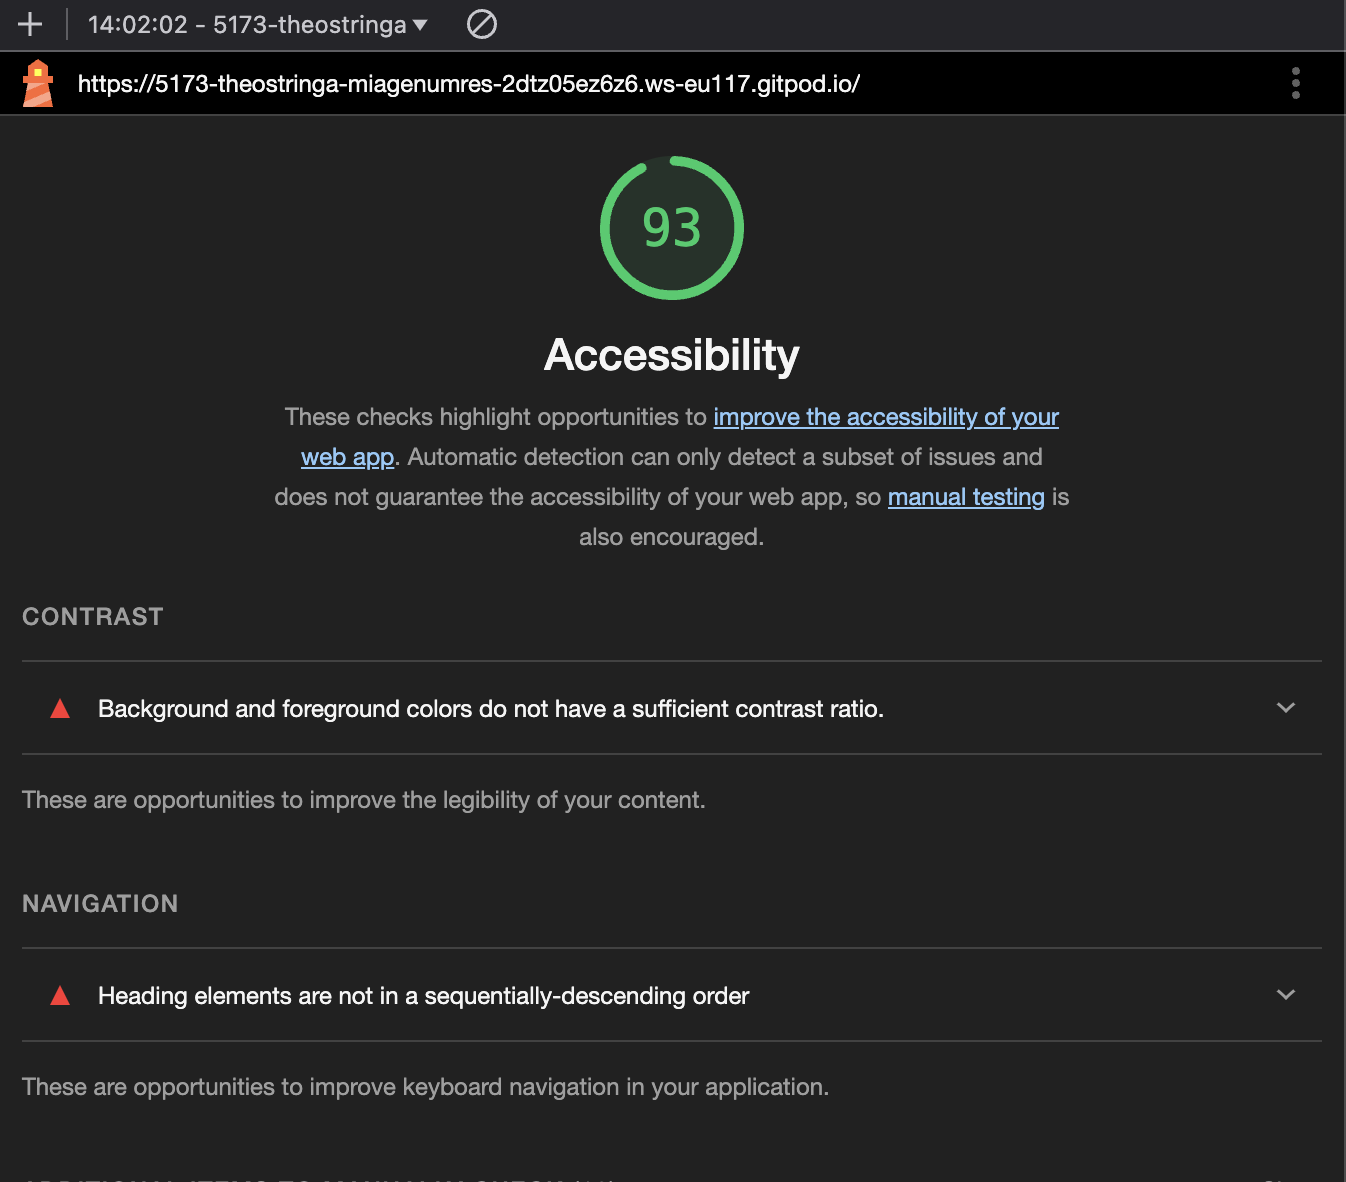
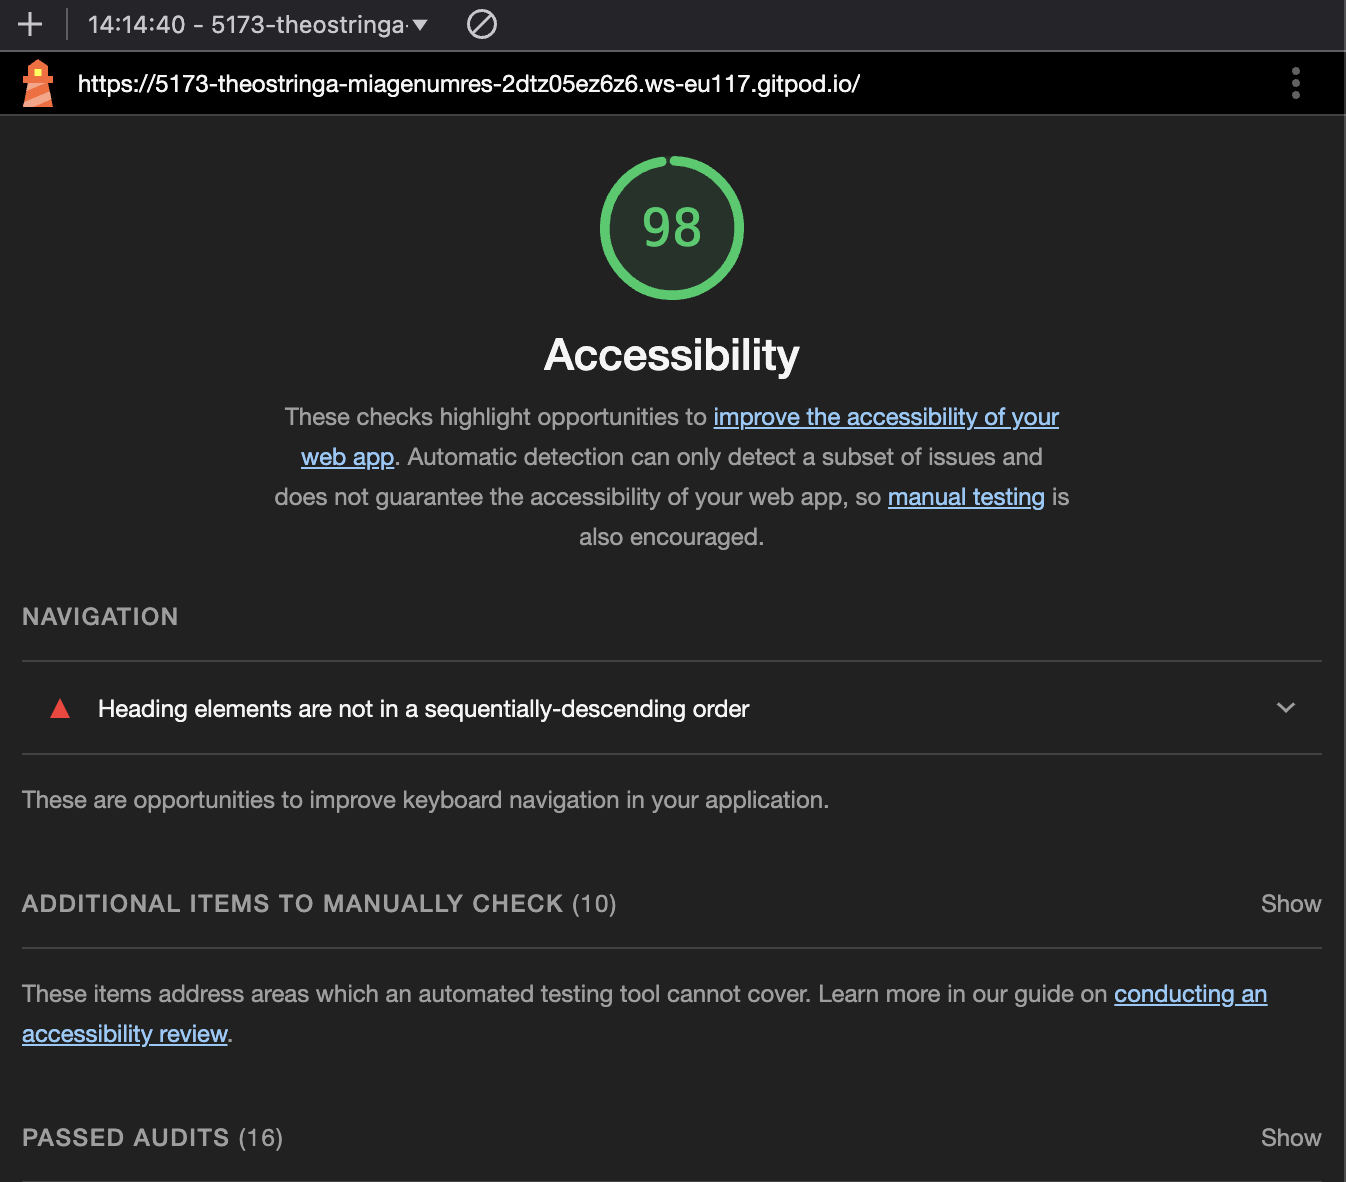
Questions 7 à 9

diff --git a/front/src/main.js b/front/src/main.js
@@ -2,56 +2,65 @@ import { initQuizz } from './quizz.js';
 import './style.css';
 
 document.querySelector('#app').innerHTML = `
-        <div class="header" style="cursor:pointer;">
-          <h1>My Quizz</h1>
-          Pour accéder a la page /about <a href="about/" style="text-decoration: none;">click ici</a>
-        </div>
+  <!-- En-tête de la page -->
+  <header class="header" style="cursor:pointer;">
+    <h1>My Quizz</h1>
+    <p>Pour accéder à la page <a href="about/" style="text-decoration: none;">About</a>, cliquez ici.</p>
+  </header>
 
+  <!-- Barre de navigation principale -->
+  <nav class="topnav">
+    <a aria-label="Lien vers Facebook" href="#" class="fa fa-facebook"></a>
+    <a aria-label="Lien vers Twitter" href="#" class="fa fa-twitter"></a>
+    <a aria-label="Lien vers Google" href="#" class="fa fa-google"></a>
+    <a aria-label="Lien vers LinkedIn" href="#" class="fa fa-linkedin"></a>
+    <a aria-label="Lien vers YouTube" href="#" class="fa fa-youtube"></a>
+    <a aria-label="Lien vers Instagram" href="#" class="fa fa-instagram"></a>
+    <a aria-label="Lien vers Pinterest" href="#" class="fa fa-pinterest"></a>
+    <a aria-label="Lien vers Snapchat" href="#" class="fa fa-snapchat-ghost"></a>
+    <a aria-label="Lien vers Skype" href="#" class="fa fa-skype"></a>
+    <a aria-label="Lien vers Android" href="#" class="fa fa-android"></a>
+    <a aria-label="Lien vers Dribbble" href="#" class="fa fa-dribbble"></a>
+    <a aria-label="Lien vers Vimeo" href="#" class="fa fa-vimeo"></a>
+    <a aria-label="Lien vers Tumblr" href="#" class="fa fa-tumblr"></a>
+    <a aria-label="Lien vers Vine" href="#" class="fa fa-vine"></a>
+    <a aria-label="Lien vers Foursquare" href="#" class="fa fa-foursquare"></a>
+    <a aria-label="Lien vers StumbleUpon" href="#" class="fa fa-stumbleupon"></a>
+    <a aria-label="Lien vers Flickr" href="#" class="fa fa-flickr"></a>
+    <a aria-label="Lien vers Yahoo" href="#" class="fa fa-yahoo"></a>
+    <a aria-label="Lien vers Reddit" href="#" class="fa fa-reddit"></a>
+    <a aria-label="Lien vers Flux RSS" href="#" class="fa fa-rss"></a>
+  </nav>
 
-        <div class="topnav">
-          <a aria-label="Lien vers Facebook" href="#" class="fa fa-facebook"></a>
-          <a aria-label="Lien vers Twitter" href="#" class="fa fa-twitter"></a>
-          <a aria-label="Lien vers Google" href="#" class="fa fa-google"></a>
-          <a aria-label="Lien vers LinkedIn" href="#" class="fa fa-linkedin"></a>
-          <a aria-label="Lien vers YouTube" href="#" class="fa fa-youtube"></a>
-          <a aria-label="Lien vers Instagram" href="#" class="fa fa-instagram"></a>
-          <a aria-label="Lien vers Pinterest" href="#" class="fa fa-pinterest"></a>
-          <a aria-label="Lien vers Snapchat" href="#" class="fa fa-snapchat-ghost"></a>
-          <a aria-label="Lien vers Skype" href="#" class="fa fa-skype"></a>
-          <a aria-label="Lien vers Android" href="#" class="fa fa-android"></a>
-          <a aria-label="Lien vers Dribbble" href="#" class="fa fa-dribbble"></a>
-          <a aria-label="Lien vers Vimeo" href="#" class="fa fa-vimeo"></a>
-          <a aria-label="Lien vers Tumblr" href="#" class="fa fa-tumblr"></a>
-          <a aria-label="Lien vers Vine" href="#" class="fa fa-vine"></a>
-          <a aria-label="Lien vers Foursquare" href="#" class="fa fa-foursquare"></a>
-          <a aria-label="Lien vers StumbleUpon" href="#" class="fa fa-stumbleupon"></a>
-          <a aria-label="Lien vers Flickr" href="#" class="fa fa-flickr"></a>
-          <a aria-label="Lien vers Yahoo" href="#" class="fa fa-yahoo"></a>
-          <a aria-label="Lien vers Reddit" href="#" class="fa fa-reddit"></a>
-          <a aria-label="Lien vers Flux RSS" href="#" class="fa fa-rss"></a>
-        </div>
+  <!-- Contenu principal de la page -->
+  <main class="row">
+    <!-- Colonne principale à gauche -->
+    <section class="leftcolumn">
+      <article class="card">
+        <h1>Nom étudiant</h1>
+        <h5>Description</h5>
+        
+        <!-- Section du quizz -->
+        <section id="quiz">
+          <h2>A TOI DE JOUER</h2>
+          <div id="question"></div>
+          <div id="proposals"></div>
+        </section>
+      </article>
+    </section>
 
-        <div class="row">
-          <div class="leftcolumn">
-            <div class="card">
-              <h1>Nom étudiant</h1>
-              <h5>description</h5>
-              <div id="quiz">
-                <h2>A TOI DE JOUER</h2>
-                <div id="question"></div>
-                <div id="proposals"></div>
-              </div>
-            </div>
-          </div>
-          <div class="rightcolumn">
-            <div class="card">
-              <img alt="image d'un point d'interrogation" src="/question.png" width="500" height="600">
-            </div>
-        </div>
+    <!-- Colonne latérale à droite -->
+    <aside class="rightcolumn">
+      <div class="card">
+        <img alt="Image d'un point d'interrogation" src="/question.png" width="500" height="600">
+      </div>
+    </aside>
+  </main>
 
-        <div class="footer">
-          <h2>@2024</h2>
-        </div>
+  <!-- Pied de page -->
+  <footer class="footer">
+    <h2>@2024</h2>
+  </footer>
 `
 
 initQuizz();

diff --git a/Questions.md b/Questions.md
@@ -21,16 +21,24 @@ Screen:
 ![score de 93 en accessibilité](image-3.png)
 
 # Q7: L'une des best practice de l'ARIA est "ne pas utiliser l'ARIA" pouvez nous expliquer pourquoi d'après vous ?
-Réponse:
+Réponse: Les balises HTML natives (<button>, <a>, <input>, etc.) sont déjà bien prises en charge par les lecteurs d’écran et les technologies d’assistance. Ces balises possèdent par défaut des rôles et des propriétés implicites. 
+Par exemple :
+- Un bouton (<button>) est automatiquement perçu comme un role=“button” par les lecteurs d’écran.
+- Un lien (<a>) est automatiquement identifié comme un role=“link”.
+- Une case à cocher (<input type="checkbox">) est déjà reconnue comme un composant interactif.
+
+Si on commence à ajouter des rôles ARIA sur ces balises, on risque de redéfinir inutilement le rôle natif de l’élément, ce qui peut confondre les lecteurs d’écran.
 
 # Q8: Ajouter le screen de votre score Lighthouse
 Screen:
 
+![score de 98 en accessibilité](image-2.png)
+
 # Q9: Pourquoi le score de lighthouse n'a pas augmenté d'après vous ?
-Réponse:
+Réponse: Du coup ca a augmenté haha.
 
 # Q10: Quel est la valeur du rapport de contraste actuel :
-Réponse:
+Réponse: 
 
 # Q11: Quel est la valeur du score AA :
 Réponse:
